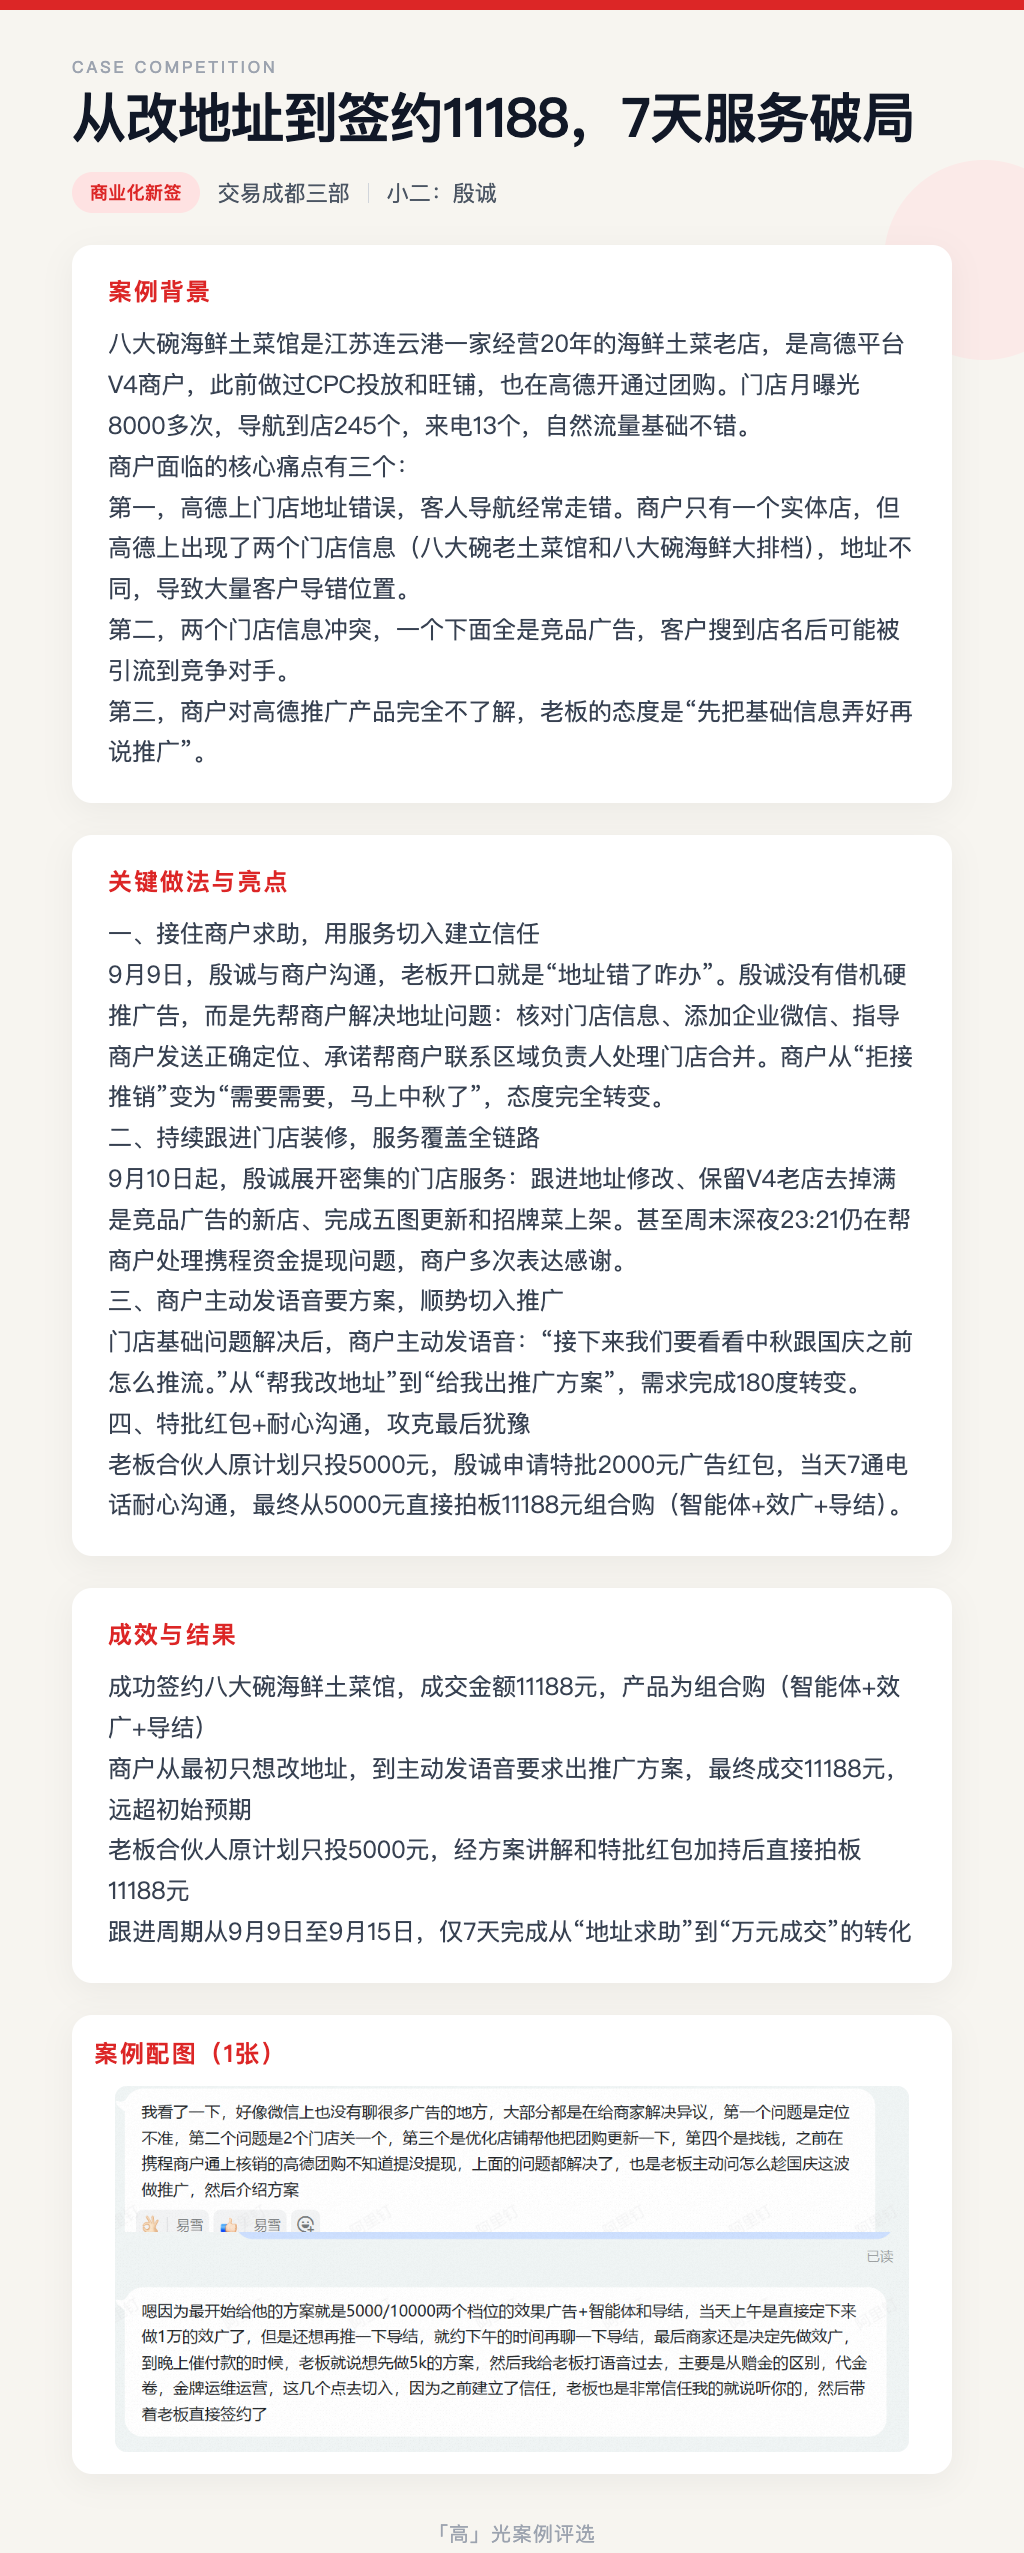
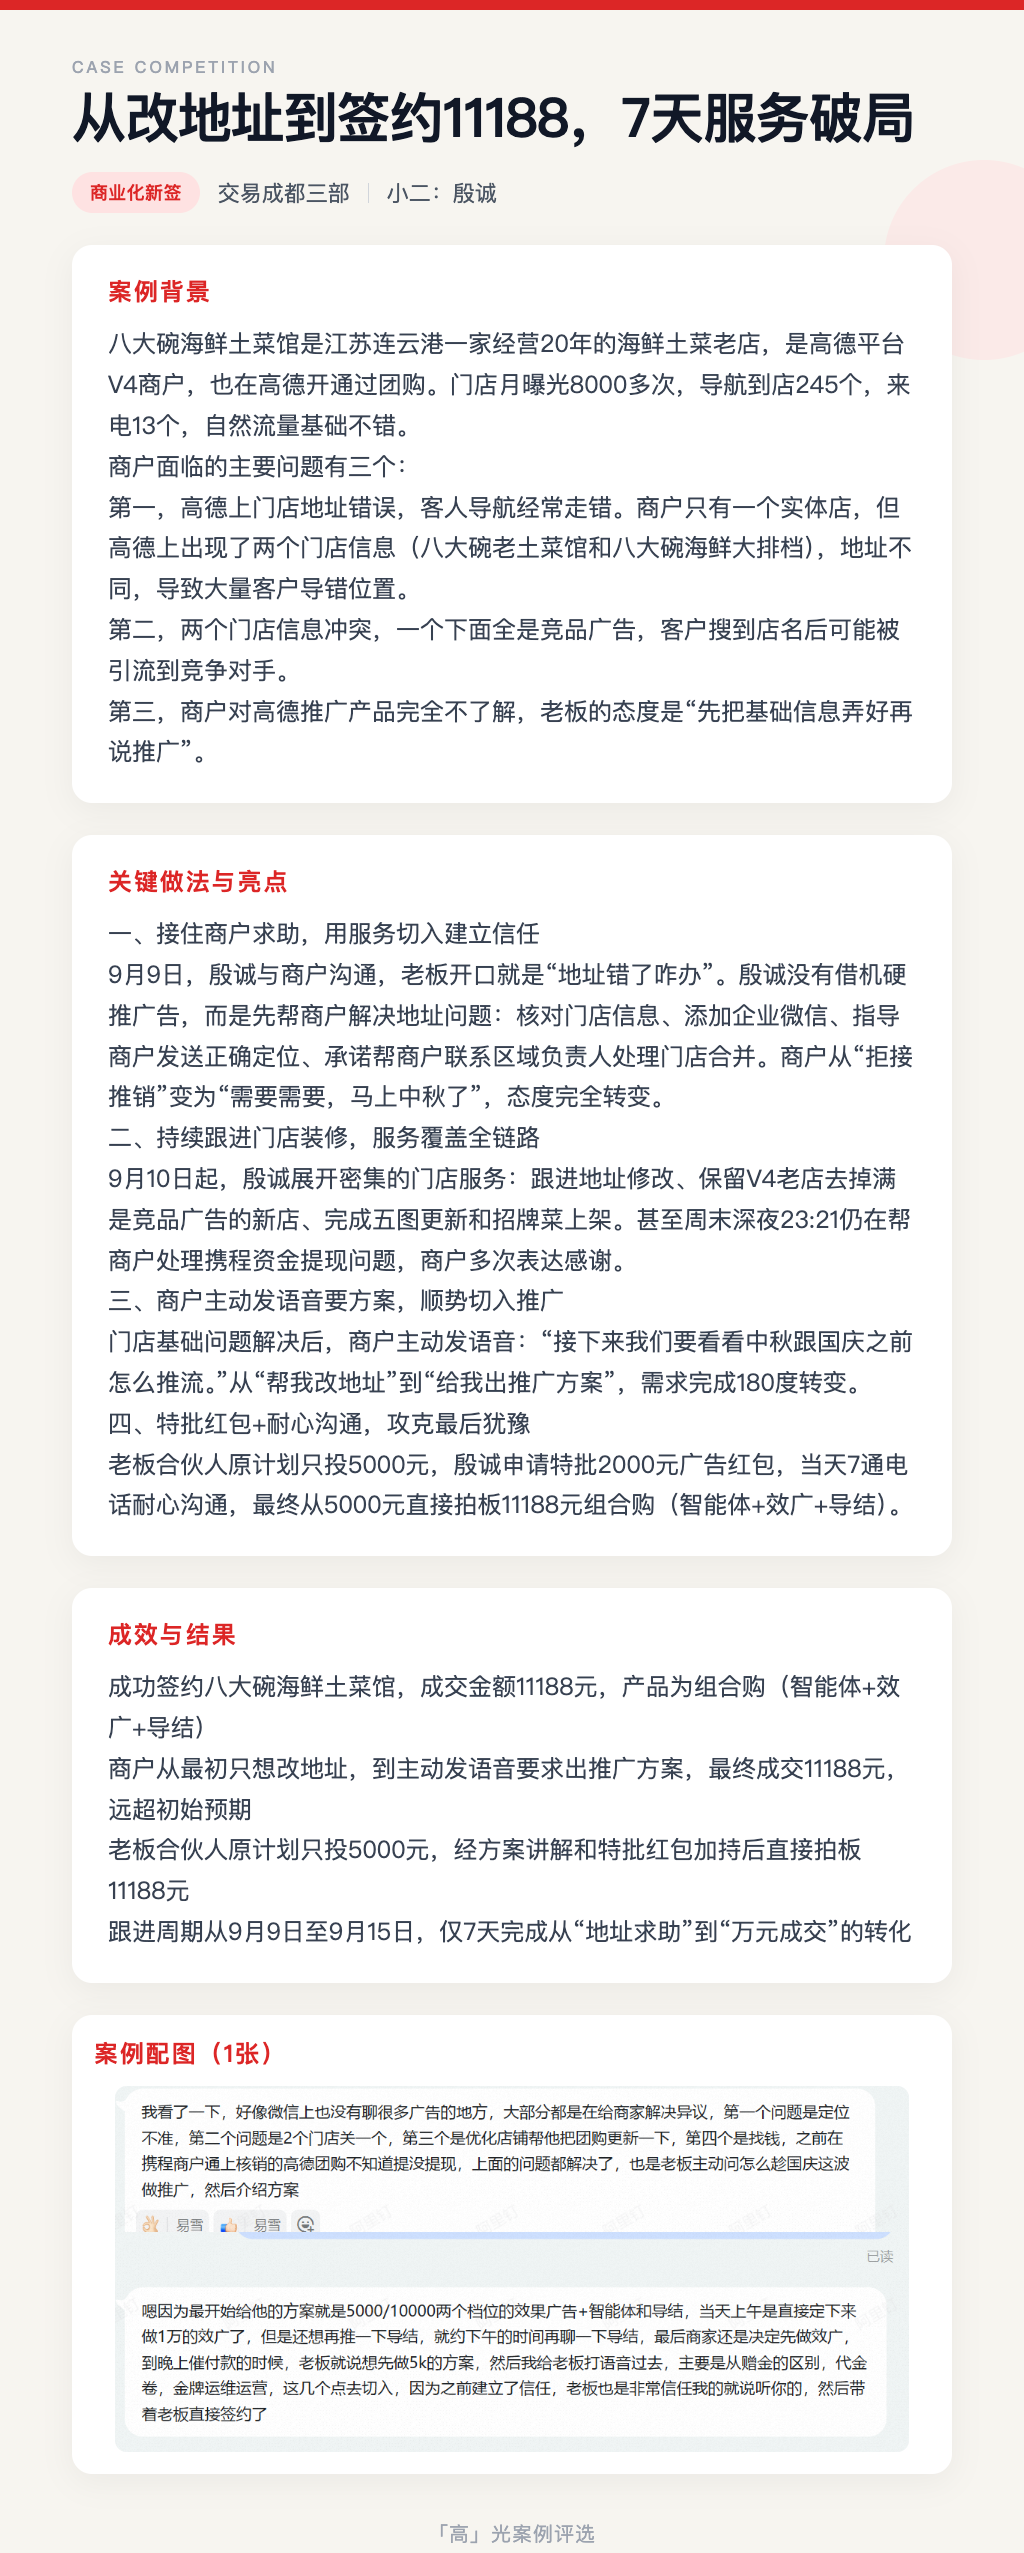
Case 18: remove CPC/旺铺 mention, change 核心痛点 to 主要问题

Changed region(s): [[0.0938, 0.1238, 0.8438, 0.1857]]

diff --git a/index.html b/index.html
@@ -487,7 +487,7 @@ let cases = [
     "category": "commercial",
     "submitter": "殷诚",
     "team": "交易成都三部",
-    "background": "八大碗海鲜土菜馆是江苏连云港一家经营20年的海鲜土菜老店，是高德平台V4商户，此前做过CPC投放和旺铺，也在高德开通过团购。门店月曝光8000多次，导航到店245个，来电13个，自然流量基础不错。\n商户面临的核心痛点有三个：\n第一，高德上门店地址错误，客人导航经常走错。商户只有一个实体店，但高德上出现了两个门店信息（八大碗老土菜馆和八大碗海鲜大排档），地址不同，导致大量客户导错位置。\n第二，两个门店信息冲突，一个下面全是竞品广告，客户搜到店名后可能被引流到竞争对手。\n第三，商户对高德推广产品完全不了解，老板的态度是\u201c先把基础信息弄好再说推广\u201d。",
+    "background": "八大碗海鲜土菜馆是江苏连云港一家经营20年的海鲜土菜老店，是高德平台V4商户，也在高德开通过团购。门店月曝光8000多次，导航到店245个，来电13个，自然流量基础不错。\n商户面临的主要问题有三个：\n第一，高德上门店地址错误，客人导航经常走错。商户只有一个实体店，但高德上出现了两个门店信息（八大碗老土菜馆和八大碗海鲜大排档），地址不同，导致大量客户导错位置。\n第二，两个门店信息冲突，一个下面全是竞品广告，客户搜到店名后可能被引流到竞争对手。\n第三，商户对高德推广产品完全不了解，老板的态度是\u201c先把基础信息弄好再说推广\u201d。",
     "practice": "一、接住商户求助，用服务切入建立信任\n9月9日，殷诚与商户沟通，老板开口就是\u201c地址错了咋办\u201d。殷诚没有借机硬推广告，而是先帮商户解决地址问题：核对门店信息、添加企业微信、指导商户发送正确定位、承诺帮商户联系区域负责人处理门店合并。商户从\u201c拒接推销\u201d变为\u201c需要需要，马上中秋了\u201d，态度完全转变。\n二、持续跟进门店装修，服务覆盖全链路\n9月10日起，殷诚展开密集的门店服务：跟进地址修改、保留V4老店去掉满是竞品广告的新店、完成五图更新和招牌菜上架。甚至周末深夜23:21仍在帮商户处理携程资金提现问题，商户多次表达感谢。\n三、商户主动发语音要方案，顺势切入推广\n门店基础问题解决后，商户主动发语音：\u201c接下来我们要看看中秋跟国庆之前怎么推流。\u201d从\u201c帮我改地址\u201d到\u201c给我出推广方案\u201d，需求完成180度转变。\n四、特批红包+耐心沟通，攻克最后犹豫\n老板合伙人原计划只投5000元，殷诚申请特批2000元广告红包，当天7通电话耐心沟通，最终从5000元直接拍板11188元组合购（智能体+效广+导结）。",
     "result": "成功签约八大碗海鲜土菜馆，成交金额11188元，产品为组合购（智能体+效广+导结）\n商户从最初只想改地址，到主动发语音要求出推广方案，最终成交11188元，远超初始预期\n老板合伙人原计划只投5000元，经方案讲解和特批红包加持后直接拍板11188元\n跟进周期从9月9日至9月15日，仅7天完成从\u201c地址求助\u201d到\u201c万元成交\u201d的转化",
     "cover": "images/case-18-cover.png",
